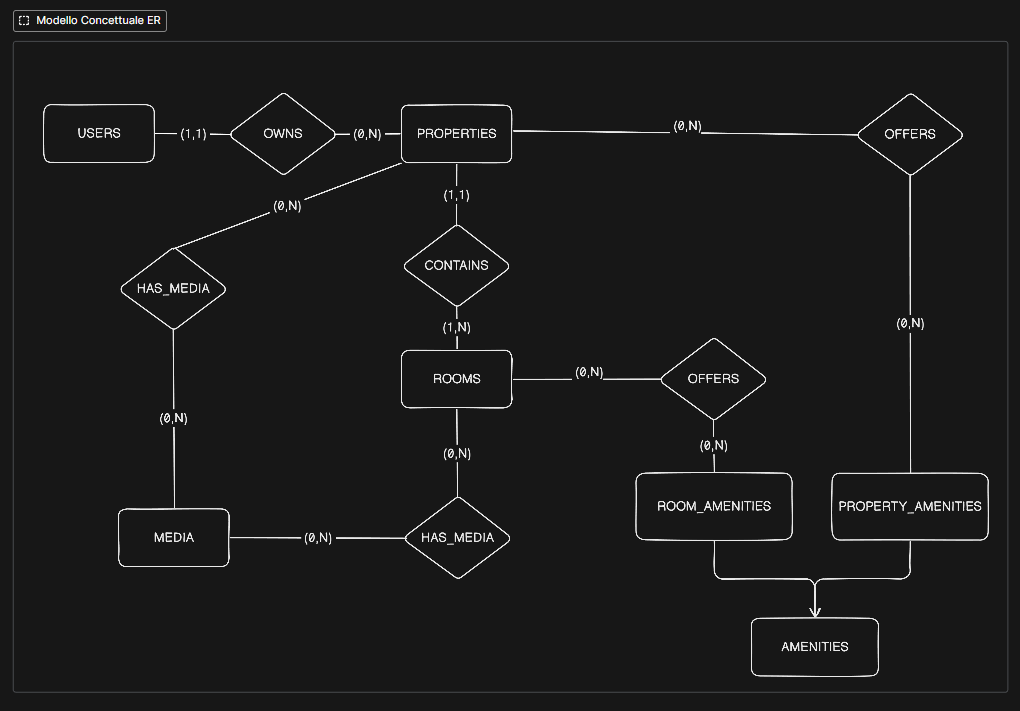
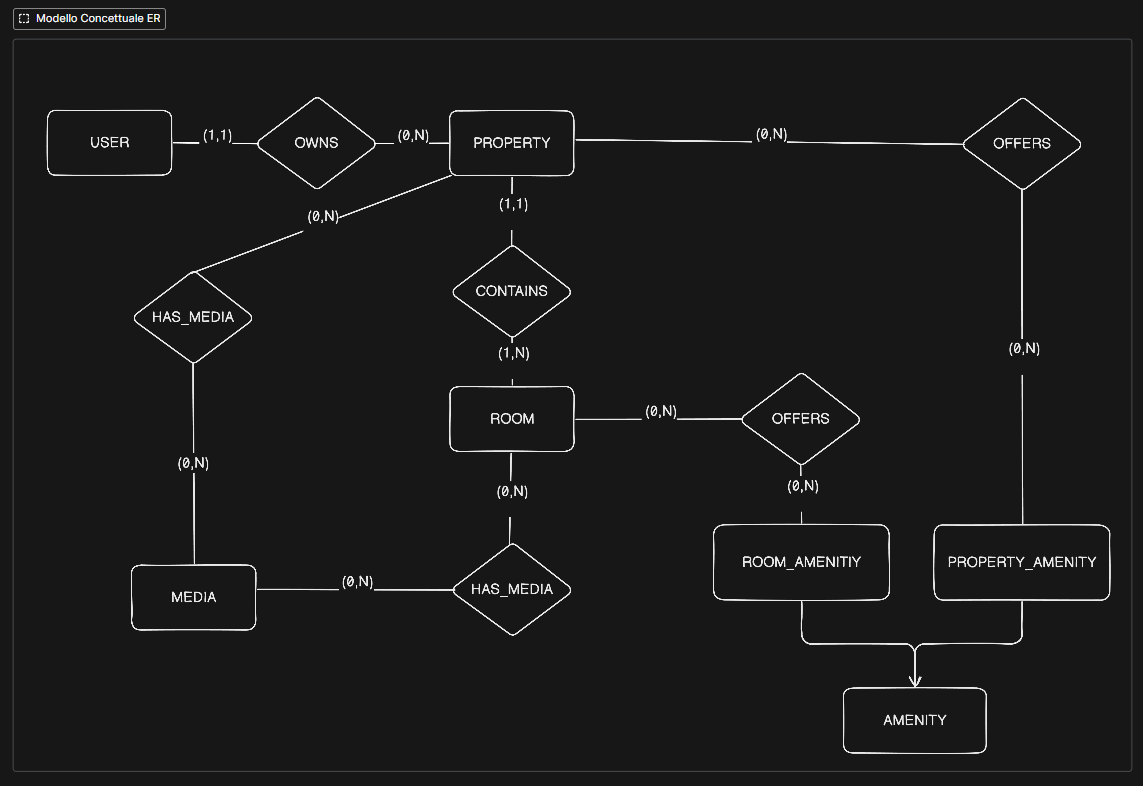
fixed png db

diff --git a/docs/notes.md b/docs/notes.md
@@ -266,7 +266,7 @@ La configurazione di LocalStack può essere gestita tramite Docker Compose, defi
 Cominciamo da un diagramma dei casi d'uso (use case diagram) per il sottosistema di onboarding delle proprietà.
 
 <!-- ![Component Diagram](./plantuml/analisi/usecase1.puml) -->
-![uml Diagram](./img/uml_use_case.png)
+![uml Diagram](./img/usecase_diagram.png)
 
 Il diagramma dei casi d’uso rappresenta le funzionalità principali del sottosistema di **onboarding delle proprietà** e della **ricerca delle proprietà**, mettendo in evidenza i diversi tipi di utenti e i permessi associati a ciascuno.
 
@@ -563,15 +563,15 @@ Infine, l’owner può visualizzare la lista delle proprietà tramite il metodo 
 
 **Update Existing Property**
 
-<!-- ![Component Diagram](./plantuml/analisi/sequence_update_property.puml) -->
-![Component Diagram](./img/uml_sequence_update_analisi.png)
+![Component Diagram](./plantuml/analisi/sequence_update_property.puml)
+<!-- ![Component Diagram](./img/uml_sequence_update_analisi.png) -->
 
 In questo scenario, l’owner invia una richiesta di aggiornamento alla proprietà esistente. Property esegue updateProperty() e risponde confermando l’aggiornamento. Successivamente l’owner può gestire le stanze tramite updateRoom(), e infine caricare eventuali nuovi media. La sequenza termina con la visualizzazione aggiornata delle proprietà dall’owner.
 
 **Delete Property**
 
-<!-- ![Component Diagram](./plantuml/analisi/sequence_delete_property.puml) -->
-![Component Diagram](./img/uml_sequence_delete_analisi.png)
+![Component Diagram](./plantuml/analisi/sequence_delete_property.puml)
+<!-- ![Component Diagram](./img/uml_sequence_delete_analisi.png) -->
 
 Il diagramma mostra come un **Property Owner** elimina una proprietà dal sistema. L’owner avvia l’operazione chiamando il metodo `deleteProperty()` sulla property desiderata. Prima di cancellare la property stessa, vengono rimossi tutti i media ad essa associati: la property chiama `delete()` su ciascun media e riceve conferma della cancellazione. Successivamente, tutte le stanze collegate alla property vengono rimosse; per ciascuna stanza, la property invoca `deleteRoom()`, che a sua volta cancella tutti i media associati alla stanza. Una volta completata la rimozione dei media di ogni stanza, la stanza stessa viene eliminata e conferma la sua cancellazione alla property. Quando tutte le stanze e tutti i media sono stati rimossi, la property viene definitivamente cancellata e restituisce al Property Owner la conferma `propertyDeleted`, completando l’intera operazione di eliminazione.
 
@@ -579,8 +579,8 @@ Il diagramma mostra come un **Property Owner** elimina una proprietà dal sistem
 
 **Search Property**
 
-<!-- ![Component Diagram](./plantuml/analisi/sequence_search.puml) -->
-![Component Diagram](./img/uml_sequence_search_analisi.png)
+![Component Diagram](./plantuml/analisi/sequence_search.puml)
+<!-- ![Component Diagram](./img/uml_sequence_search_analisi.png) -->
 
 In questo scenario, l’utente avvia la ricerca delle proprietà tramite il metodo `searchProperties()` definito nella classe `User`. Questo metodo accetta i criteri di ricerca, come località, date o preferenze, e restituisce l’elenco delle proprietà corrispondenti. Per ogni proprietà trovata, il sistema chiama internamente i metodi `getRooms()` e `getMedia()` della classe `Property` per recuperare rispettivamente l’elenco delle stanze e dei media associati alla proprietà.
 
@@ -654,6 +654,9 @@ L'analisi del diagramma evidenzia l'adozione strategica di pattern "Gang of Four
 Per la gestione delle **Amenities** (i servizi accessori, come "Wi-Fi" o "Aria Condizionata"), è stato applicato il pattern creazionale **Factory Method**.  
 Il problema affrontato riguarda la necessità di creare oggetti di tipo diverso (servizi legati all'intera proprietà vs servizi legati alla singola stanza) che condividono un'interfaccia comune, senza che il codice client (il Service) debba conoscerne la classe esatta o la logica di inizializzazione.
 
+![Component Diagram](./plantuml/design/factory_method.puml)
+
+
 Come illustrato nel diagramma:
 
 - **Creator (Astratto):** la classe `AmenityFactory` dichiara il metodo astratto di creazione.  
@@ -667,6 +670,10 @@ Questa struttura permette di estendere il sistema con nuovi tipi di amenity in f
 ##### Adapter Pattern
 
 Il pattern strutturale **Adapter** è stato fondamentale per integrare librerie di terze parti (in particolare nel nostro caso i servizi AWS) senza toccare la logica di dominio con dipendenze esterne. L'Adapter agisce come un "traduttore" o "wrapper" tra due interfacce incompatibili: quella richiesta dall'applicazione e quella fornita dalla libreria esterna.
+
+![Component Diagram](./plantuml/design/adapter_auth.puml)
+![Component Diagram](./plantuml/design/adapter_storage.puml)
+
 
 Nel sistema sono stati implementati due adapter principali:
 
@@ -714,8 +721,8 @@ Inoltre, il gateway gestisce le **autenticazioni e autorizzazioni**, quindi solo
 
 ### **Package Diagram di Design**
 
-<!-- ![Component Diagram](./plantuml/design/package.puml) -->
-![Component Diagram](./img/uml_package.png)
+![Component Diagram](./plantuml/design/package.puml)
+<!-- ![Component Diagram](./img/uml_package.png) -->
 
 
 Un **package diagram** è uno strumento UML usato per **raggruppare e organizzare elementi del modello** in insiemi logici (**package**). Serve a **visualizzare le dipendenze ad alto livello** tra i vari pezzi del sistema, riducendo il rumore dei dettagli implementativi.
@@ -769,66 +776,125 @@ In questo modo il diagramma comunica chiaramente **come i componenti interagisco
 
 
 
-### **Design of the Onboarding Database**
+# Progettazione del Database
 
-![modello ER Onboarding Database](./database/er.png)
+In questa sezione vediamo la progettazione del database relazionale realizzato per il sistema di onboarding delle proprietà e per la ricerca. Il processo ha seguito le classiche fasi: concettuale, logica e fisica. Come DBMS è stato scelto PostgreSQL su AWS RDS.
 
-![modello ER Onboarding Database](./database/logico.png)
+## Progettazione Concettuale
 
+L'obiettivo della progettazione concettuale è tradurre i requisiti informativi in una rappresentazione chiara della realtà, indipendente dalla tecnologia. Gli elementi principali sono:
 
-Abbiamo scelto un database relazionale per il nostro progetto perché i dati dell’applicazione presentano caratteristiche tipiche di scenari relazionali: entità distinte con attributi ben definiti, relazioni complesse tra entità, e la necessità di garantire integrità e coerenza.
+- **Entità e Attributi:** le entità rappresentano classi di oggetti con caratteristiche comuni, descritte tramite *attributi* con un proprio dominio di valori.
+- **Chiavi:** tra gli attributi si individuano le *chiavi candidate*, cioè gli insiemi minimi di attributi che identificano univocamente un’istanza. Tra queste si sceglie la *chiave primaria*.
+- **Associazioni e Cardinalità:** le connessioni tra entità si chiamano *associazioni* e sono regolate da vincoli di *cardinalità* (min/max), che indicano se la relazione è 1:1, 1:N o N:M.
 
+Il principale strumento in questa fase è il **Diagramma Entità-Relazione (E-R)**, dove rettangoli rappresentano le entità, rombi le associazioni e le linee mostrano cardinalità e gerarchie. Dal diagramma emergono alcune scelte di modellazione:
 
-- **Utenti e proprietà**: ogni utente può possedere più proprietà, ma ogni proprietà appartiene a un solo utente. Questa relazione uno-a-molti è facilmente rappresentabile tramite chiavi esterne, e garantisce che una proprietà non possa esistere senza un proprietario valido.
-- **Proprietà e stanze**: una proprietà può avere diverse stanze, ognuna con caratteristiche proprie (tipo, prezzo, capacità, disponibilità). Anche qui, la relazione uno-a-molti consente query semplici per recuperare tutte le stanze di una proprietà e aggiornamenti coerenti se la proprietà viene modificata o eliminata.
-- **Media associati a proprietà e stanze**: ogni file multimediale può appartenere a una proprietà o a una stanza. Utilizzare un database relazionale ci permette di definire chiaramente queste associazioni e vincolare la presenza di media solo a entità esistenti.
-- **Amenities e relazioni molti-a-molti**: sia le proprietà che le stanze possono avere diverse amenities, e ogni amenity può essere condivisa da più proprietà o stanze. Le tabelle associative permettono di gestire queste relazioni in maniera chiara e scalabile, senza duplicare dati.
+![Diagramma ER](./database/er.png)  
+*Figura: Diagramma Entità-Relazione per il sottosistema di Onboarding delle Proprietà.*
 
-In scenari non relazionali (NoSQL), dovremmo replicare dati o utilizzare strutture nidificate, complicando query complesse come “tutte le stanze con amenity X di proprietà di un certo utente” o “tutti i media associati a una stanza specifica”. Il database relazionale rende queste query naturali e performanti.
+- **Gerarchia Proprietario-Struttura:** l’entità *USER* è collegata a *PROPERTY* tramite *OWNS*. La cardinalità (1,1) lato proprietà significa che ogni struttura deve avere un proprietario, mentre (0,N) lato utente indica che un account può gestire più proprietà o nessuna.
 
+- **Composizione della Proprietà:** *CONTAINS* collega *PROPERTY* a *ROOM*. La cardinalità (1,1) per la stanza indica che non può esistere senza la proprietà, mentre (1,N) per la proprietà indica che deve avere almeno una stanza.
 
+- **Gestione dei Servizi:** le entità *PROPERTY_AMENITY* e *ROOM_AMENITY* sono specializzazioni di *AMENITY*. Così si distinguono i servizi dell’intera struttura (es. Wi-Fi, Piscina) da quelli delle singole stanze (es. Asciugacapelli, Culla), evitando duplicazioni. Entrambe sono collegate tramite relazioni molti-a-molti *OFFERS*.
 
-**Fasi del progetto del database**
+- **Media:** l’entità *MEDIA* è collegata sia a *PROPERTY* che a *ROOM* tramite *HAS_MEDIA*, così foto e video possono riferirsi alla struttura o alle singole stanze. Ogni media appartiene a una sola entità.
 
-1. **Analisi dei requisiti**: identificazione delle entità principali (utenti, proprietà, stanze, media, amenities), dei loro attributi e delle regole di business principali.
-2. **Definizione delle relazioni**: individuazione delle associazioni tra entità (uno-a-molti, molti-a-molti) e dei vincoli necessari per mantenere l’integrità dei dati.
-3. **Modello concettuale (ER)**: rappresentazione grafica delle entità come rettangoli  e delle associazioni come rombi. Si sono definite le cardinalità (es. 0..N per amenities) e generalizzazioni, come l’entità astratta **Amenity**, da cui derivano **PropertyAmenity** e **RoomAmenity**.
-4. **Modello logico**: traduzione del modello concettuale in tabelle relazionali, chiavi primarie e chiavi esterne. Le relazioni uno-a-molti sono implementate tramite chiavi esterne, mentre le relazioni molti-a-molti tramite tabelle associative (link). Attributi come `created_at` o `inserted_at` sono stati aggiunti per tracciare le informazioni temporali, mentre campi come `category` nelle amenities consentono una classificazione utile alle query.
+## Progettazione Logica
 
+La **progettazione logica** converte lo schema concettuale in un modello relazionale pronto per il DBMS. Lo schema definisce tabelle, **chiavi primarie**, vincoli e relazioni.
 
-**Modello concettuale (ER)**
+Ogni entità è stata trasformata in tabella, normalizzando gli attributi e usando chiavi artificiali (ID), mentre le chiavi naturali sono vincoli di unicità. Le gerarchie di generalizzazione sono state appiattite secondo i pattern di accesso. Le regole principali per le relazioni:
 
-- **Entità principali**: `User`, `Property`, `Room`, `Media`, `PropertyAmenity`, `RoomAmenity`.
-- **Attributi chiave**: identificatori univoci per ogni entità, campi descrittivi come nome, descrizione, tipo, prezzo, città, paese.
-- **Relazioni**:
+- N:M → tabelle associative  
+- 1:N → chiave esterna nel lato “molti”  
+- 1:1 → valutata caso per caso
 
-  - **User → Property**: uno-a-molti, “owns”.
-  - **Property → Room**: uno-a-molti, “contains”.
-  - **Property → PropertyAmenity**: molti-a-molti, “offers”, tramite losanga e frecce con cardinalità (0,N)-(0,N).
-  - **Room → RoomAmenity**: molti-a-molti, “offers”, stesso schema.
-  - **Property/Room → Media**: uno-a-molti, “has_media”.
-- **Generalizzazione**: entità astratta **Amenity** da cui derivano PropertyAmenity e RoomAmenity, condividendo attributi comuni.
+![Modello Logico](./database/logico.png)  
+*Figura: Modello Logico Relazionale del database.*
 
+Trasformazioni principali dal modello E-R a quello logico:
 
-**Modello logico**
+- **Mappatura 1:N:** relazioni gerarchiche come *User-Property* e *Property-Room* diventano chiave esterna nell’entità “debole” (**rooms.property_id**).
 
-- **Trasformazione del concettuale in tabelle**: ogni entità diventa una tabella, ogni attributo diventa una colonna.
-- **Relazioni uno-a-molti**: implementate tramite chiavi esterne nella tabella figlia (es. `property_id` in `rooms`).
-- **Relazioni molti-a-molti**: implementate tramite tabelle associative (`property_amenities_link`, `room_amenities_link`) con chiavi composte e riferimenti alle entità correlate.
+- **Risoluzione N:M:** le relazioni *Offers* diventano tabelle associative **property_amenities_link** e **room_amenities_link**, che contengono coppie di chiavi esterne e attributi della relazione (**custom_description**).
 
+- **Gestione della Generalizzazione:** la gerarchia dei servizi è risolta con "Table per Concrete Class", creando **property_amenities** e **room_amenities** separate, semplificando le query.
 
-**Progettazione fisica (PostgreSQL su RDS/Aurora):**
-In questa fase traduciamo il modello logico in una struttura concreta che sarà effettivamente salvata nel database.
+- **Relazione Esclusiva Media:** *media* ha due colonne nullable **property_id** e **room_id**, con vincolo che può riferirsi solo a una delle due.
 
-- Ogni tabella ha **tipi di campo adeguati**: UUID per gli ID, VARCHAR/TEXT per nomi e descrizioni, TIMESTAMP per date, NUMERIC per prezzi e valori numerici.
-- Le **foreign key (FK)** garantiscono l’integrità referenziale tra le tabelle, assicurando che i collegamenti tra proprietà, stanze, media e amenities siano coerenti.
-- Creiamo **indici mirati** per ottimizzare le query più importanti degli utenti:
+## Progettazione Fisica
 
-  - `properties(city, country, status)` → permette di filtrare velocemente le proprietà per città, paese o stato.
-  - `rooms(property_id)` → consente di recuperare rapidamente tutte le stanze associate a una specifica proprietà.
-  - `property_amenities_link(property_id)` e `room_amenities_link(room_id)` → velocizzano la ricerca delle amenities collegate a una proprietà o a una stanza.
+La progettazione fisica traduce lo schema logico in direttive specifiche per PostgreSQL. Si definiscono tipi fisici (*VARCHAR*, *TIMESTAMP*), vincoli e strutture di accesso (indici).
 
-Gli indici sono scelti **solo per le query critiche di ricerca**, così da migliorare le prestazioni senza appesantire il database con indici inutili.
+Lo script *schema.sql* crea tutte le tabelle. Grazie a **ON DELETE CASCADE**, eliminando una proprietà vengono rimosse automaticamente tutte le entità dipendenti, evitando record orfani.
+
+### Strategia di Indicizzazione Semplificata
+
+Per migliorare le prestazioni delle query si è usata una strategia ibrida:
+
+- **Indici B-Tree:** ottimi per ricerche, insert e ordinamenti (O(log n)), applicati su colonne di JOIN e filtri esatti, come tutte le chiavi esterne e **status** in *properties*.  
+
+- **Indici GIN con Trigram:** necessari per ricerche testuali con *ILIKE '%pattern%'*. L’estensione **pg_trgm** divide le stringhe in trigrammi, e l’indice GIN memorizza quali righe contengono quali trigrammi, velocizzando le ricerche su grandi dataset. Applicati su **city** e **name**.
+
+```sql
+-- Abilita estensione trigram
+CREATE EXTENSION IF NOT EXISTS pg_trgm;
+-- Indice trigram su city
+CREATE INDEX idx_properties_city_trgm 
+   ON properties USING gin (city gin_trgm_ops);
+-- Indice trigram su name
+CREATE INDEX idx_properties_name_trgm 
+   ON properties USING gin (name gin_trgm_ops);
+```
+
+Query di ricerca usando B-Tree e GIN:
+
+```sql
+SELECT p.id, p.name, p.address, p.city, p.country, p.description
+FROM properties p
+WHERE p.status = 'PUBLISHED'   -- Usa idx_properties_status (B-Tree)
+  AND (p.city ILIKE '%roma%'   -- Usa idx_properties_city_trgm (GIN)
+       OR p.name ILIKE '%roma%') -- Usa idx_properties_name_trgm (GIN)
+ORDER BY p.created_at DESC
+LIMIT 50;
+```
+
+Query per recuperare entità correlate:
+
+```sql
+-- Recupera stanze (usa idx_rooms_property_id)
+SELECT * FROM rooms WHERE property_id = ANY(:hotel_ids);
+-- Recupera media (usa idx_media_property_id)
+SELECT * FROM media WHERE property_id = ANY(:hotel_ids);
+-- Recupera amenities (usa idx_prop_amenities_link_pid)
+SELECT * FROM property_amenities_link 
+WHERE property_id = ANY(:hotel_ids);
+
+```
+
+Limiti della soluzione: filtri multipli, ricerche geospaziali e ordinamento per rilevanza richiederebbero sistemi più complessi. In produzione sarebbe consigliato un motore dedicato come Elasticsearch o Amazon OpenSearch, con pattern CQRS e sincronizzazione tramite CDC.
+
+Per il progetto si è scelto un approccio semplificato, concentrandosi sull’onboarding e una ricerca base su PostgreSQL.
+Seguendo il principio Infrastructure as Code, l’applicazione dello schema è integrata nel provisioning. Con Terraform, una risorsa null_resource esegue lo script schema.sql appena l’istanza database è pronta:
+
+```hcl
+resource "null_resource" "db_setup" {
+# Riesegue il provisioning solo se cambia lo script SQL
+  triggers = {
+    schema_hash = filemd5("${path.module}/schema.sql")
+  }
+  depends_on = [aws_db_instance.postgres] 
+  provisioner "local-exec" {
+    environment = {
+      PGPASSWORD = aws_db_instance.postgres.password 
+    }
+    # Esegue lo script SQL
+    command = "psql -h localhost -U ${aws_db_instance.postgres.username} -d ${aws_db_instance.postgres.db_name} -f ${path.module}/schema.sql"
+  }
+}
+```
 
 ### **Architettura Cloud**
 
